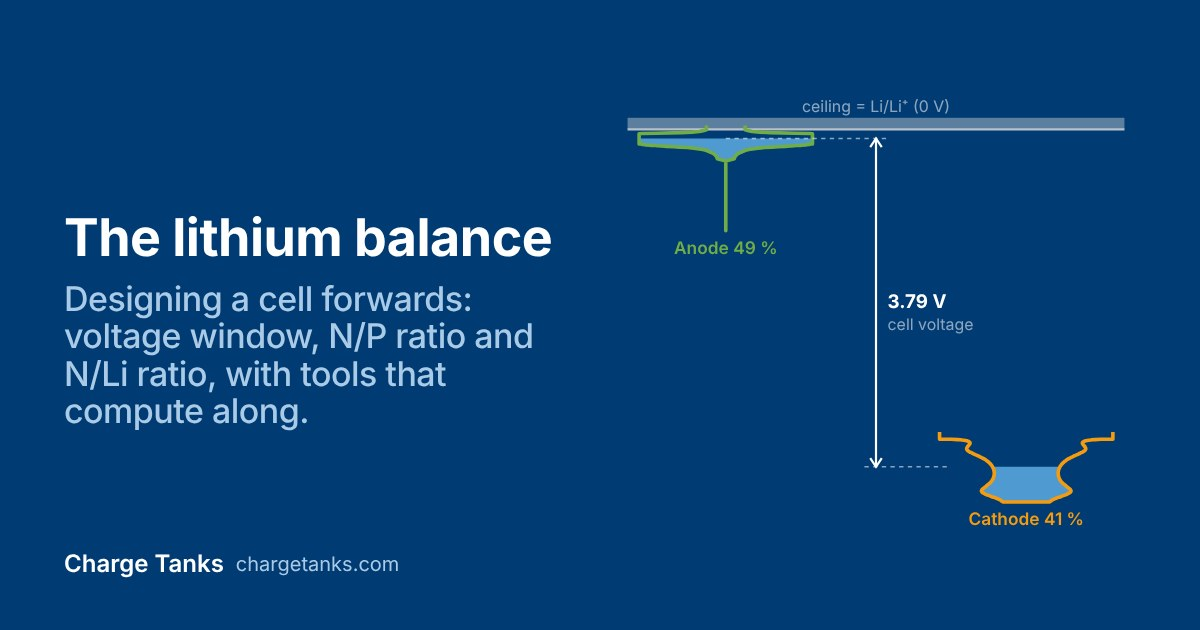
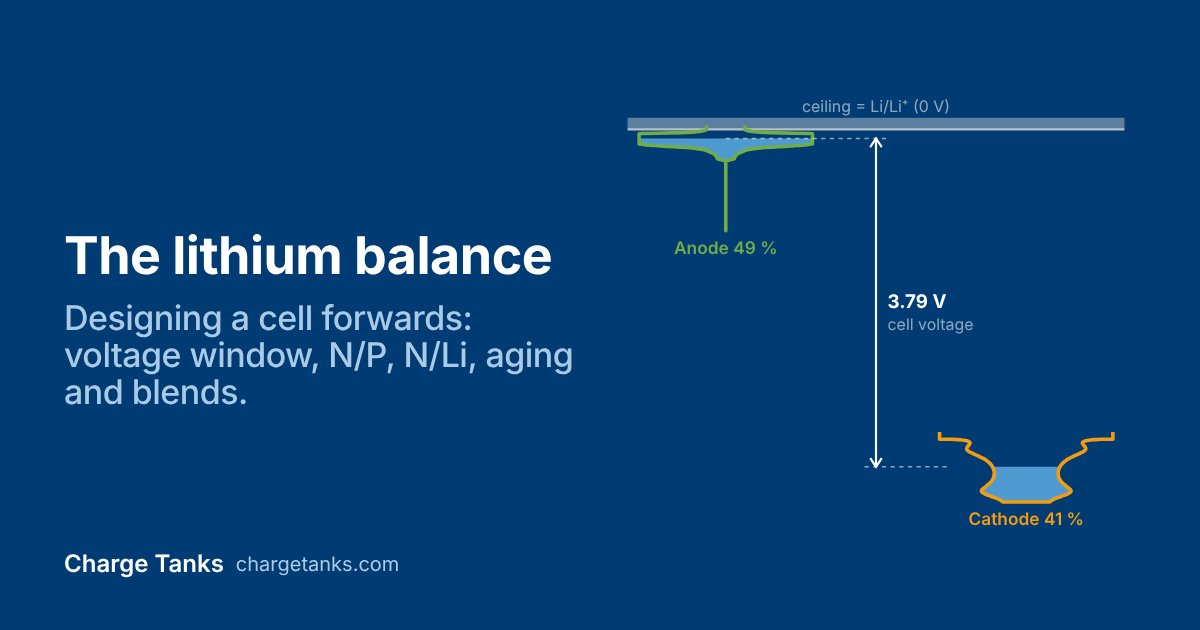
Texte ausserhalb des Kapitels: weniger Format-Beschreibung, gleicher Ton
- Startseite: Lead erklaert das Tankbild statt des Formats, Bildunterschrift
  ohne Doppelung, Tools-Lead gekuerzt
- Kapitel-Lead und Teaser 1, 3, 5 neu (chapters.json, auch /blog/)
- /blog/ und /tools/: neuer Lead, doppelter Abstand oben behoben (mainClass)
- Tool-Teaser und Meta-Beschreibungen ohne "see how"/"Interactive tool:"
- Tool-Seiten: Ueberschriften und Leads neu, alte Streamlit-Einfuehrungen
  raus, kurze "How to read the charts", Swelling-Erklaerung neu
- Regler: Cathode/Anode loss (LAM), Lithium loss (LLI), N/P ratio,
  Li/P ratio, Graphite share (A), Cylindrical can
- Metas Startseite, /blog/, /tools/, About, Kapitel; site.description,
  Manifest, llms.txt (About ohne CV)
- 404: "This tank is empty"
- Vorschaubild Kapitel: Untertitel mit Aging und Blends

Claude-Session: https://claude.ai/code/session_019iWZ5Be97w1UcJymkZc2JE

Changed region(s): [[0.0308, 0.3317, 0.4933, 0.6937]]

diff --git a/config/og/render.html b/config/og/render.html
@@ -31,7 +31,7 @@ const brand = '<div class="brand">Charge Tanks <small>chargetanks.com</small></d
 const fig = '<figure class="ch-fig" data-chapter-figure data-tool="intro" data-show="tanks" data-curves="real" data-vmin="2.8" data-vmax="4.2" data-soc="0.6"><div class="ch-fig__parts" data-figure-parts></div><figcaption>x</figcaption></figure>';
 const T = {
   home: '<h1>A battery is lithium, two tanks and bookkeeping.<span>The complexity is in the curves, not in the logic.</span></h1>' + fig,
-  chapter: '<h1>The lithium balance<span>Designing a cell forwards: voltage window, N/P ratio and N/Li ratio, with tools that compute along.</span></h1>' + fig,
+  chapter: '<h1>The lithium balance<span>Designing a cell forwards: voltage window, N/P, N/Li, aging and blends.</span></h1>' + fig,
   about: '<h1>Dr. Lars von Kolzenberg<span>Principal battery model developer at Breathe. PhD on SEI growth, Ulm University.</span></h1><img class="photo" src="/images/lars.jpg" alt="">',
   post: '<h1>N/P isn\'t N/P.<span>Same N/P of 1.1, same SEI. NMC\'s formation bonus fills the anode, LFP\'s doesn\'t. N/Li tells the difference.</span></h1><figure class="ch-fig ch-compare" data-chapter-compare><div class="ch-fig__parts" data-figure-parts></div><figcaption>x</figcaption></figure>',
 };

diff --git a/src/tools/blending.md b/src/tools/blending.md
@@ -4,16 +4,16 @@ permalink: /tools/blending/
 toolSlug: blending
 title: Blending
 metaTitle: "Blended electrodes: graphite and silicon as tanks | Charge Tanks"
-heading: Understand Blended Electrodes with the Tank Analogy
-lead: Mix graphite (material A) and silicon (material B) in one electrode and see how the blended tank, its voltage and the material states of lithiation follow.
+heading: Two materials, one level
+lead: Graphite (A) and silicon (B) in one electrode fill up together, and the lithium goes wherever the tank is wider.
 controls:
   - group: Blend setup
     items:
-      - { type: slider, name: sol, label: SoL (Blend), min: 0, max: 1, step: 0.01, value: 0.5, primary: true }
-      - { type: slider, name: gamma, label: "q% (Material A)", min: 0, max: 1, step: 0.01, value: 0.7, primary: true }
+      - { type: slider, name: sol, label: SoL (blend), min: 0, max: 1, step: 0.01, value: 0.5, primary: true }
+      - { type: slider, name: gamma, label: "Graphite share (A)", min: 0, max: 1, step: 0.01, value: 0.7, primary: true }
 tryThis:
-  - { query: "gamma=1", label: "q% = 1:", text: "pure graphite. The blend tank equals the graphite tank." }
-  - { query: "gamma=0", label: "q% = 0:", text: "pure silicon." }
+  - { query: "gamma=1", label: "Graphite share 1:", text: "pure graphite. The blend tank equals the graphite tank." }
+  - { query: "gamma=0", label: "Graphite share 0:", text: "pure silicon." }
   - { query: "sol=0.25&gamma=0.5", label: "Half and half at SoL 0.25:", text: "both materials sit at the same voltage but at different states of lithiation." }
 readMore: { url: "/blog/lithium-balance/#blends", title: "The lithium balance: blended electrodes" }
 charts:
@@ -23,57 +23,11 @@ charts:
   - { id: solmap, title: Mapping SoLs to blend SoL }
 ---
 
-## What does this tool show?
+## How to read the charts
 
-Material A is **graphite**, material B is **silicon**. **q%** is the capacity fraction of material A in the blend.
+Material A is graphite, material B is silicon. The graphite share is A's fraction of the electrode's capacity.
 
-### 1) The tanks of each material (top left)
-
-Imagine two water tanks side by side.
-
-- Each tank represents one **battery material**.
-- The **shape** of the tank tells us how much lithium it can hold at each "height".
-- This shape is shown by the curve called **dQ/dV** (capacity per voltage).
-
-In the plot you see:
-
-- Left (green): tank of **material A**, scaled by its capacity fraction (**q%**).
-- Right (yellow): tank of **material B**, scaled by **(1-q%)**.
-- The light-blue filling marks the **current water level** (voltage).
-
-### 2) The blend tank (bottom left)
-
-If we now put both tanks together, we get the **blend tank**.
-
-- The blend curve is just the **sum** of both separate tanks.
-- This shows how the **mixture** of A and B behaves as one electrode.
-- Thin green and yellow lines remind you of the individual tanks.
-- The thick light-gray line shows the combined response.
-
-### 3) Voltage as water level (top right)
-
-The **height of the water level** is the **voltage** of the blend. As you slide the **blend state of lithiation (θ_blend)**, the level moves up or down. At each level we can read:
-
-- the **OCV of material A** (green),
-- the **OCV of material B** (yellow),
-- the **OCV of the blend** (light gray, thick line).
-
-The dots show the current operating point for each.
-
-### 4) Mapping SoLs (bottom right)
-
-Here comes the trickier part:
-
-- The **blend SoL** is just one slider you control.
-- But inside, each material has its own **SoL** (SoL A, SoL B).
-- The curves show how SoL A and SoL B change as SoL Blend moves.
-- The dashed line is a simple reference.
-
-## In summary
-
-- Top left: the **individual tanks**.
-- Bottom left: the **blend tank** = A + B.
-- Top right: the **voltage** comes from the water level.
-- Bottom right: the **hidden mapping** between blend SoL and the two material SoLs.
-
-By adjusting **SoL (Blend)** and **q%**, you can explore how different mixtures behave and see how electrode design shapes battery voltage.
+- **Tanks of each material:** graphite (green), scaled by its share, and silicon (orange), scaled by the rest. The light-blue filling is the current level.
+- **Voltage from water level:** the OCV of graphite, silicon and the blend (thick line). The dots sit at the current level, at the same voltage for all three.
+- **Blend tank:** the sum of both tanks, so the blend behaves like one electrode. The thin lines are the single materials.
+- **Mapping SoLs to blend SoL:** how full graphite and silicon each are while the blend fills. The dashed line is the blend itself, for reference.

diff --git a/src/tools/aging.md b/src/tools/aging.md
@@ -4,8 +4,8 @@ permalink: /tools/aging/
 toolSlug: aging
 title: Aging
 metaTitle: "Aging modes LLI and LAM in the tank model | Charge Tanks"
-heading: Understand Aging Modes with the Tank Analogy
-lead: Shrink the anode or cathode tank or remove lithium and see which reservoir limits the usable capacity.
+heading: Three things a cell can lose
+lead: Take away lithium or active material and see which loss the capacity actually notices.
 controls:
   - group: Cell settings
     items:
@@ -14,12 +14,12 @@ controls:
       - { type: slider, name: soc, label: SoC, min: 0, max: 1, step: 0.01, value: 0.5, primary: true }
   - group: Aging modes
     items:
-      - { type: slider, name: lampe, label: Cathode LAM (lampe), min: 0, max: 0.5, step: 0.01, value: 0 }
-      - { type: slider, name: lamne, label: Anode LAM (lamne), min: 0, max: 0.5, step: 0.01, value: 0 }
-      - { type: slider, name: lli, label: LLI (lithium loss), min: 0, max: 0.5, step: 0.01, value: 0 }
+      - { type: slider, name: lampe, label: Cathode loss (LAM), min: 0, max: 0.5, step: 0.01, value: 0 }
+      - { type: slider, name: lamne, label: Anode loss (LAM), min: 0, max: 0.5, step: 0.01, value: 0 }
+      - { type: slider, name: lli, label: Lithium loss (LLI), min: 0, max: 0.5, step: 0.01, value: 0 }
 tryThis:
   - { query: "anode=graphite&cathode=nmc&lli=0.2", label: "Graphite/NMC with 20 % lithium loss:", text: "SoH drops to 79.79 %." }
-  - { query: "anode=graphite&cathode=nmc&lamne=0.1", label: "10 % anode loss:", text: "SoH only drops to 98.84 %, because the anode has headroom (NP ratio 1.1)." }
+  - { query: "anode=graphite&cathode=nmc&lamne=0.1", label: "10 % anode loss:", text: "SoH only drops to 98.84 %, because the anode has headroom (N/P 1.1)." }
   - { query: "anode=graphite&cathode=nmc&lamne=0.3", label: "30 % anode loss:", text: "now the anode costs capacity, SoH falls to 83.66 %." }
   - { query: "anode=graphite&cathode=nmc&lampe=0.2", label: "20 % cathode loss:", text: "SoH falls to 84.41 %." }
 readMore: { url: "/blog/lithium-balance/#aging", title: "The lithium balance: aging modes" }
@@ -29,36 +29,9 @@ charts:
   - { id: caps, title: Capacities (relative to cathode), wide: true, short: true, readout: soh }
 ---
 
-## What does this tool show?
-
-Think of a battery like **two water tanks** that share the same water.
-
-- One tank is the **anode**, the other is the **cathode**.
-- The **water** is like the lithium that moves back and forth.
-
-When you **charge** the battery, you **pump water uphill** into the anode tank. When you **use** the battery, the water flows **downhill** back to the cathode.
-
-The **height difference** between the tanks is the **voltage** of the battery. Each tank has its own **shape** (shown in the **dQ/dV plot**) that tells how much water it can hold at each level.
-
-Over time, the tanks don't stay the same: this is **aging**.
-
-- **Anode aging (LAM-Anode)**: the anode tank shrinks.
-- **Cathode aging (LAM-Cathode)**: the cathode tank shrinks.
-- **Lithium loss (LLI)**: there's simply less water to move around.
-
-These changes shift the tank levels and make the **OCV curve** look different.
-
-## The knobs you can play with
-
-- **LAM-Anode**: shrink the anode tank
-- **LAM-Cathode**: shrink the cathode tank
-- **LLI**: reduce the total water
-
-Try the sliders and watch how the tanks, voltage, and battery health change.
-
 ## How to read the charts
 
 - **Tanks:** the dashed outlines show the electrodes at beginning of life (BOL), the solid outlines the aged electrodes, the blue filling the lithium at the current SoC. The dotted lines mark the electrode potentials at 0 % and 100 % SoC of the fresh cell; they stay fixed as a BOL reference.
 - **Voltage:** the dashed curve is the OCV at BOL, the solid curve the OCV of the aged cell.
 - **Capacities:** the bars show lithium, anode and cathode capacity relative to the cathode at BOL; the dashed marks show the BOL values. The dotted white line marks the smallest reservoir. SoH is the usable capacity relative to BOL.
-- **Cell settings:** with ideal anode and ideal cathode the cell uses an NP ratio of 1.0, a LiP ratio of 1.0 and a 2.0 to 4.0 V window; every other material pair uses NP 1.1, LiP 0.95 and 2.8 to 4.2 V.
+- **Cell settings:** with ideal anode and ideal cathode the cell uses an N/P ratio of 1.0, a Li/P ratio of 1.0 and a 2.0 to 4.0 V window; every other material pair uses N/P 1.1, Li/P 0.95 and 2.8 to 4.2 V.

diff --git a/src/tools/cell-reconstruction.md b/src/tools/cell-reconstruction.md
@@ -4,8 +4,8 @@ permalink: /tools/cell-reconstruction/
 toolSlug: cell-reconstruction
 title: Cell Reconstruction
 metaTitle: "Full-cell OCV from two electrode tanks | Charge Tanks"
-heading: Understand Batteries with the Tank Analogy
-lead: Combine an anode and a cathode tank into a full cell and see how voltage limits, NP ratio and lithium inventory shape its OCV.
+heading: Two tanks, one cell
+lead: Hang an anode and a cathode tank from one ceiling, and the cell voltage is the gap between their levels. Voltage window, N/P and lithium inventory decide how much of the tanks you actually use.
 controls:
   - group: Cell settings
     items:
@@ -18,38 +18,20 @@ controls:
       - { type: slider, name: vmax, label: "V max [V]", min: 3.5, max: 4.5, step: 0.01, value: 4 }
   - group: Capacity ratios
     items:
-      - { type: slider, name: np, label: NP Ratio, min: 0.8, max: 1.5, step: 0.01, value: 1 }
-      - { type: slider, name: lip, label: LiP Ratio, min: 0.5, max: 1.5, step: 0.01, value: 1 }
+      - { type: slider, name: np, label: N/P ratio, min: 0.8, max: 1.5, step: 0.01, value: 1 }
+      - { type: slider, name: lip, label: Li/P ratio, min: 0.5, max: 1.5, step: 0.01, value: 1 }
 tryThis:
   - { query: "anode=graphite&cathode=nmc&soc=1&vmin=2.8&vmax=4.2&np=1.1&lip=0.95", label: "Graphite/NMC at 100 % SoC:", text: "at 4.2 V the cathode tank is almost empty (Q_cath = 0.01 Ah)." }
   - { query: "anode=graphite&cathode=nmc&soc=1&vmin=2.8&vmax=4&np=1.1&lip=0.95", label: "Upper limit 4.0 V instead of 4.2 V:", text: "only 0.72 Ah instead of 0.94 Ah reach the anode. Capacity depends on the voltage window." }
-  - { query: "anode=graphite&cathode=nmc&soc=1&vmin=2.8&vmax=4.2&np=0.9&lip=0.95", label: "NP ratio 0.9:", text: "the anode is smaller than the cathode and is almost full at 100 % SoC." }
+  - { query: "anode=graphite&cathode=nmc&soc=1&vmin=2.8&vmax=4.2&np=0.9&lip=0.95", label: "N/P 0.9:", text: "the anode is smaller than the cathode and is almost full at 100 % SoC." }
 readMore: { url: "/blog/lithium-balance/#voltage-window", title: "The lithium balance: the voltage window" }
 charts:
   - { id: dqdv, title: Electrode dQ/dV tanks }
   - { id: voltage, title: Voltage vs. SoC }
 ---
 
-## What does this tool show?
+## How to read the charts
 
-Think of a battery like **two water tanks** that share the same water.
-
-- One tank is the **anode**, the other is the **cathode**.
-- The **water** is like the lithium that moves back and forth.
-
-When you **charge** the battery, you **pump water uphill** into the anode tank. When you **use** the battery, the water flows **downhill** back to the cathode.
-
-The **height difference** between the two tanks is the **voltage** of the battery. That's how much "push" the battery can give.
-
-Each tank has its own **shape**. Some parts are wide (can hold a lot of water), some are narrow (hold less). This shape is shown in the **dQ/dV plot**.
-
-If we keep track of the height difference as the tanks fill and empty, we get the **OCV curve**, the battery's special fingerprint.
-
-## The knobs you can play with
-
-- **SoC**: how full the tanks are right now
-- **Vmin & Vmax**: the lowest and highest "water levels" we allow
-- **NP ratio**: how big one tank is compared to the other
-- **LiP ratio**: how much total water (lithium) is in the system
-
-Turn the knobs and watch how the tanks and the voltage curve change.
+- **Tanks:** anode (green) and cathode (orange) on one voltage axis, with the ceiling (Li/Li⁺, 0 V) on top. The arrow is the cell voltage, Q<sub>an</sub> and Q<sub>cath</sub> the lithium in each tank right now.
+- **Voltage:** the full-cell OCV between Vmin and Vmax. The dot marks the current SoC.
+- **Li/P ratio:** the lithium in play relative to the cathode, the way the lithium balance counts it. N/Li is N/P divided by Li/P.

diff --git a/src/tools/swelling.md b/src/tools/swelling.md
@@ -4,14 +4,14 @@ permalink: /tools/swelling/
 toolSlug: swelling
 title: Swelling
 metaTitle: "Battery swelling: breathing, SEI growth and compression | Charge Tanks"
-heading: Understand Swelling
-lead: See how electrode breathing, SEI growth and stack compression change the thickness of a silicon/NMC cell stack.
+heading: Why cells get thicker
+lead: A silicon/NMC stack breathes with the state of charge, grows with its SEI and pushes back when you clamp it.
 controls:
   - group: Swelling conditions
     items:
       - { type: slider, name: soc, label: SoC, min: 0, max: 1, step: 0.01, value: 0.5, primary: true }
-      - { type: slider, name: soh, label: State of Health, min: 0.8, max: 1, step: 0.01, value: 1 }
-      - { type: checkbox, name: cylindrical, label: "Cylindrical?", value: false }
+      - { type: slider, name: soh, label: State of health, min: 0.8, max: 1, step: 0.01, value: 1 }
+      - { type: checkbox, name: cylindrical, label: "Cylindrical can", value: false }
       - { type: slider, name: compression, label: "Compression [MPa]", min: 0, max: 60, step: 1, value: 0, decimals: 0 }
 tryThis:
   - { query: "soh=0.8", label: "SoH 0.80:", text: "the SEI layer adds permanent thickness, the total grows from 1.051 to 1.123." }
@@ -23,26 +23,12 @@ charts:
   - { id: compression, title: Compression vs. porosity, wide: true }
 ---
 
-## What does this tool show?
+## What makes a cell thicker
 
-Why can a battery get thicker? Three simple reasons:
-
-1. **Breathing:** when SoC goes up or down, the anode and cathode gently expand and shrink (like lungs).
-2. **Irreversible swelling:** over life a thin **SEI "crust"** grows and adds permanent thickness (lower SoH means more swelling).
-3. **Compression:** squeezing the stack pushes back.
-
-- **Cylindrical:** the metal can fixes the thickness; you can't tune the squeeze.
-- **Pouch/prismatic:** you *can* clamp it (springs/pads). More squeeze means less empty space.
-
-## Knobs
-
-- **SoC** drives breathing.
-- **SoH**: lower means more SEI swelling.
-- **Cylindrical** switches to the fixed-thickness can.
-- **Compression** is the clamp force for pouch and prismatic cells.
-
-Move the sliders and watch the layers and the total thickness respond.
+- **Breathing:** both electrodes change volume with the state of charge, the silicon anode most of all. The SoC slider drives it.
+- **SEI growth:** the SEI keeps growing over life and adds thickness that never goes away. The lower the SoH, the thicker the stack.
+- **Compression:** clamp a pouch or prismatic cell and you squeeze the pores: the stack gets thinner, the porosity drops. A cylindrical can fixes the thickness instead.
 
 ## Model settings
 
-The cell pairs a silicon anode with an NMC cathode (NP ratio 1.1, LiP ratio 0.95, 2.8 to 4.2 V). The stack consists of the anode current collector (18 µm), anode (7 µm), separator (20 µm), cathode (47 µm) and cathode current collector (15 µm), with porosities of 0.3 (anode), 0.4 (separator) and 0.25 (cathode). Thicknesses are normalized to the designed stack: half of each current collector, both coatings and the separator.
+The cell pairs a silicon anode with an NMC cathode (N/P 1.1, Li/P 0.95, 2.8 to 4.2 V). The stack consists of the anode current collector (18 µm), anode (7 µm), separator (20 µm), cathode (47 µm) and cathode current collector (15 µm), with porosities of 0.3 (anode), 0.4 (separator) and 0.25 (cathode). Thicknesses are normalized to the designed stack: half of each current collector, both coatings and the separator.

diff --git a/src/tools/materials.md b/src/tools/materials.md
@@ -4,8 +4,8 @@ permalink: /tools/materials/
 toolSlug: materials
 title: Materials
 metaTitle: "Electrode materials as tanks: dQ/dV and OCV | Charge Tanks"
-heading: Understand Materials with the Tank Analogy
-lead: Pick an electrode material and fill it with lithium to see how the tank shape and the voltage curve belong together.
+heading: One material, one tank
+lead: Fill one electrode material with lithium and watch where the level moves fast and where it barely moves.
 controls:
   - group: Material
     items:
@@ -20,15 +20,7 @@ charts:
   - { id: voltage, title: Voltage vs. SoL }
 ---
 
-## What does this tool show?
+## How to read the charts
 
-This tool shows how a **single electrode material** behaves inside a battery, using the **tank analogy**.
-
-- Think of the material as a tank that can be filled with lithium, just like filling water into a container.
-- The **curve shape** of the tank tells us how much lithium fits at each "height".
-- The **steep parts** of the curve (big dQ/dV) mean the material can take in a lot of lithium without much change in voltage, like a wide part of the tank.
-- The **flat parts** mean even a small amount of lithium changes the voltage a lot, like a narrow neck of the tank.
-
-The **tank view** shows the dQ/dV shape of the tank, the **voltage chart** shows how the voltage changes as the tank fills (the OCV curve). Observe how peaks in the dQ/dV show up as plateaus in the OCV curve.
-
-By moving the **SoL** slider (state of lithiation), you can explore how the lithium filling level relates to both views at the same time.
+- **Tank:** the width at each voltage is the material's dQ/dV. The filling is the lithium at the current state of lithiation (SoL).
+- **Voltage:** the same state as a dot on the voltage curve.
